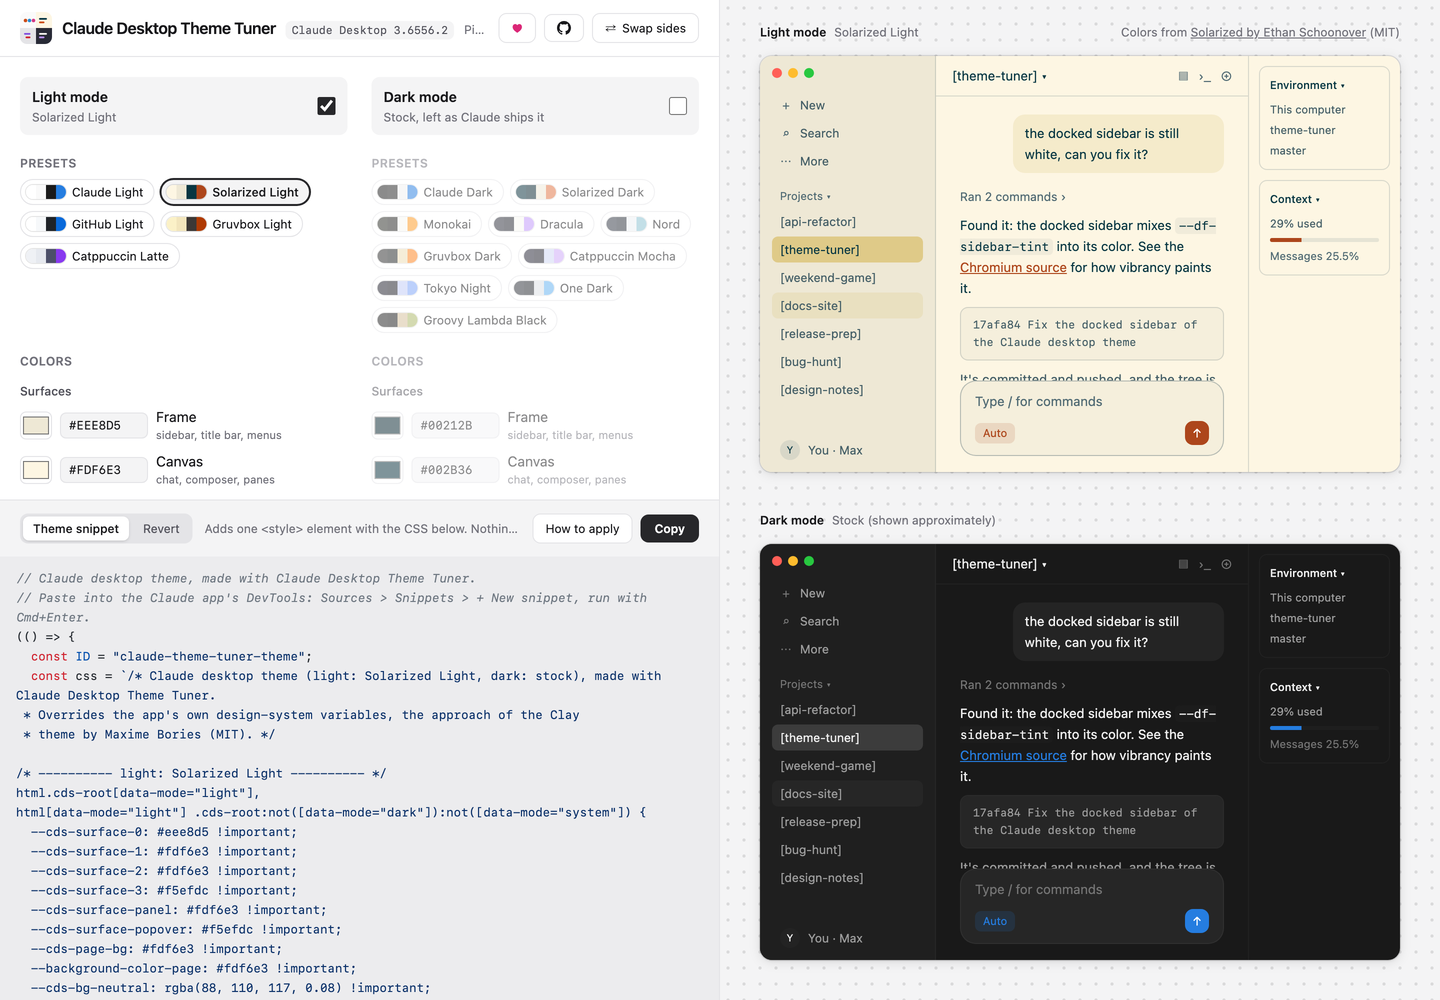
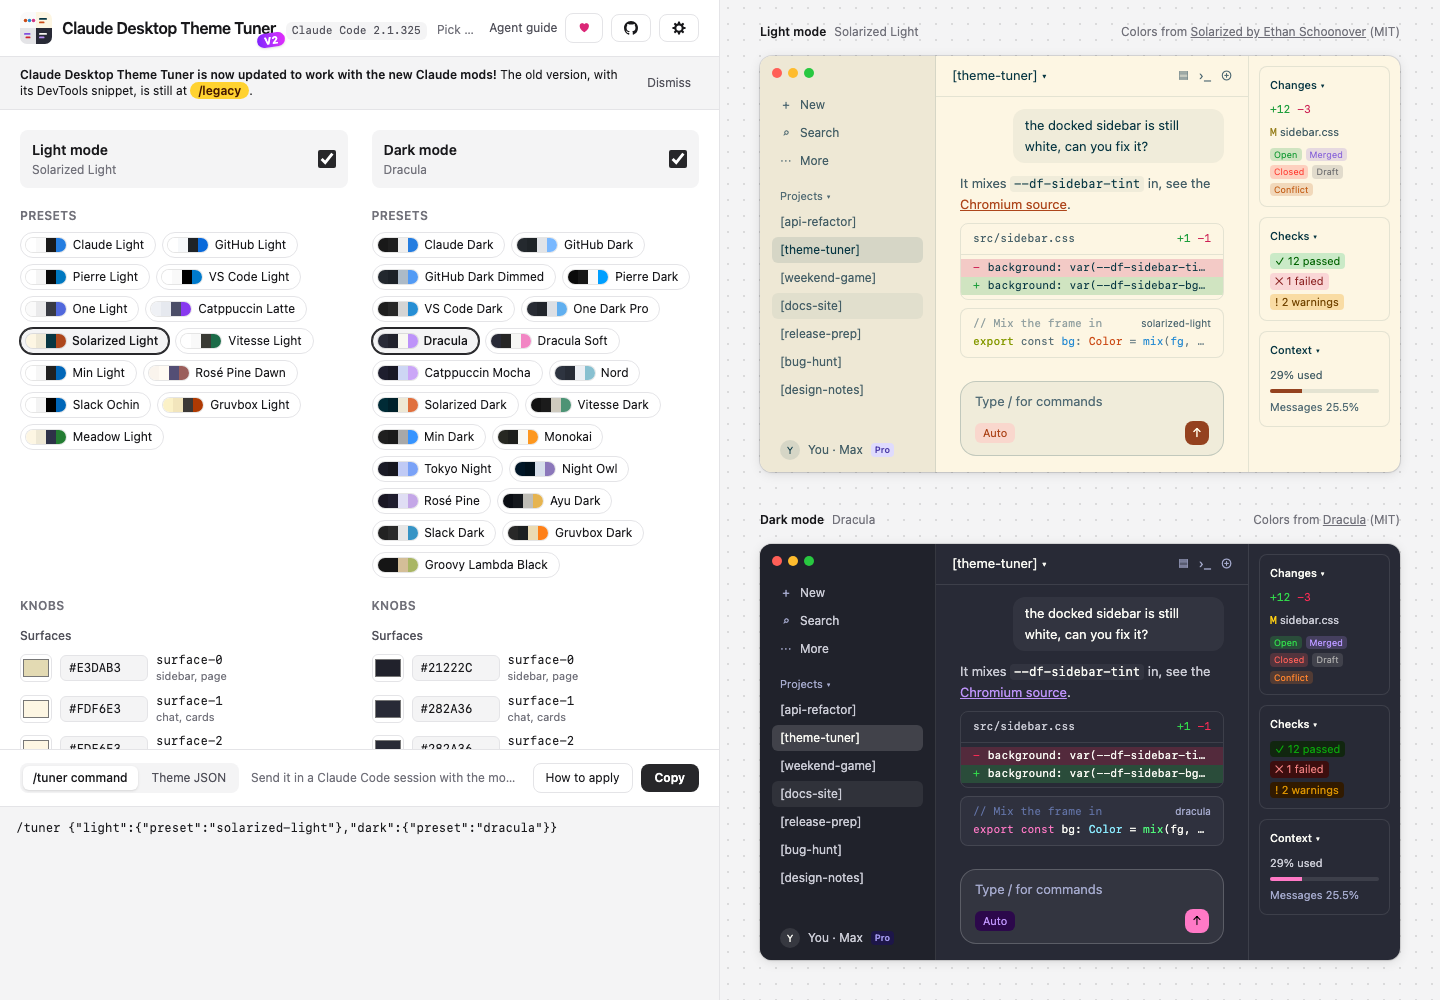
Retake the README screenshot, and move the first tuner to a Legacy section
The screenshot shows the home: the knobs of each mode over the /tuner
command, and the light and dark previews. The README now leads with the
home and the mod (features, install, agents, how a look is made), and the
first tuner gets a Legacy section of its own: its features, how it compares
with the mod, the snippet steps, screenshots for agents, what to do when a
Claude update breaks it, and how the snippet works. The video, which shows
the first tuner, moves there too.

diff --git a/README.md b/README.md
@@ -9,7 +9,7 @@
 </p>
 
 <p align="center">
-  Pick, tune and copy a color theme for the Claude desktop app, in light and dark mode.
+  Design a color theme for the Claude desktop app, in light and dark mode, and apply it with a Claude Code mod.
 </p>
 
 <p align="center">
@@ -20,114 +20,60 @@
   <a href="LICENSE"><img src="https://img.shields.io/github/license/rinn7e/claude-desktop-theme-tuner" alt="License: MIT"></a>
 </p>
 
-Design a theme for the Claude desktop app with a live preview. The home page
-designs it for the Theme Tuner mod of Claude Code: the surfaces, texts, roles,
-git colors and code theme of each mode, the contrast and a backdrop, written as
-a JSON setup the mod applies. The first tuner, at
-[`/legacy`](https://rinn7e.com/claude-desktop-theme-tuner/legacy), tunes 13
-colors and copies them as a DevTools snippet. Light and dark mode each get their
-own theme, and the app follows your OS between them. Tested against Claude
-desktop 3.6556.2 on macOS (the version is shown in the app's title bar).
+Design a theme for the Claude desktop app with a live preview, and apply it
+with the Theme Tuner mod of Claude Code: no DevTools, kept across restarts,
+shown on mobile too. Light and dark mode each get their own theme, and the app
+follows your OS between them. The first tuner, with its DevTools snippet, lives
+on at [`/legacy`](https://rinn7e.com/claude-desktop-theme-tuner/legacy) (see
+[Legacy](#legacy-the-first-tuner)).
 
 **Open the app: [rinn7e.com/claude-desktop-theme-tuner](https://rinn7e.com/claude-desktop-theme-tuner/)**,
-install the [Theme Tuner mod](#theme-claude-code-with-the-mod) to theme Claude
-Code sessions with no DevTools, or
+install the [Theme Tuner mod](#theme-claude-code-with-the-mod), or
 [let your AI agent design a theme for you](#design-a-theme-with-an-ai-agent).
 
 <p align="center">
-  <img src="doc/screenshot.png" alt="The tuner: customizer and snippet on the left, light and dark previews of the Claude app on the right">
+  <img src="doc/screenshot.png" alt="The home: the knobs of each mode over the /tuner command on the left, light and dark previews of Claude on the right">
 </p>
-
-## Video Showcase
-
-[![Claude Desktop Theme Tuner: how to use it](https://img.youtube.com/vi/DfnZwI23iNM/maxresdefault.jpg)](https://www.youtube.com/watch?v=DfnZwI23iNM)
 
 ## Features
 
-- **A designer for the mod (the home page):** per mode a preset, then each
-  knob of Claude: the four surfaces, the three texts, the five roles, the
-  seven git colors and the code theme; for both modes more contrast and a
-  backdrop (a color or a gradient). Each knob shows the value sent and where
-  it comes from. The page runs Claude's own `makeColors` and the graph of
-  its design system, so the preview draws what Claude draws (a diff and pull
-  request states for the git colors, status marks for the roles, code in
-  the code theme) and says when Claude would refuse the theme and why. It
-  copies the **Theme JSON** or a `/tuner` command. Edits are kept in your
-  browser.
-
-The first tuner, at `/legacy`:
-
-- **Presets:** one for every code theme in Claude's "Code appearance" setting,
-  in the same order, so the app can match its code blocks: Claude Light and
-  Dark (Claude's own defaults, measured from the app), GitHub (Light, Dark,
-  Dark Dimmed), Pierre, VS Code, One Light and One Dark Pro, Catppuccin Latte
-  and Mocha, Solarized, Vitesse, Min, Rosé Pine and Rosé Pine Dawn, Slack
-  Ochin and Slack Dark, Dracula and Dracula Soft, Nord, Monokai, Tokyo Night,
-  Night Owl and Ayu Dark. Plus Gruvbox Light and Dark, Groovy Lambda Black
-  and Meadow Light.
-- **Tuning:** every color of a theme has a picker, with WCAG contrast checks for
-  the text and accent pairs. Edits are kept in your browser.
-- **Presets as files:** the gear menu saves both modes and the options to a
-  JSON file and loads one back, to keep a theme or share it. Loaded names and
-  links are cleaned, so a shared file can't slip extra CSS into the snippet.
-- **Share links:** the gear menu's **Copy Share Link** puts the setup in the
-  link itself (`#theme=...`, which never reaches the server); opening it loads
-  the theme.
-- **A Claude Code mod:** the
-  [Theme Tuner mod](#theme-claude-code-with-the-mod) applies the presets and
-  links with no DevTools, keeps them across restarts and shows them on mobile
-  too.
-- **Made for AI agents:** an agent can design themes for you and show you
-  screenshots, without clicking through the page; see
+- **Presets:** one for every code theme in the "Code appearance" setting of
+  Claude, in the same order: Claude Light and Dark (the own colors of Claude),
+  GitHub (Light, Dark, Dark Dimmed), Pierre, VS Code, One Light and One Dark
+  Pro, Catppuccin Latte and Mocha, Solarized, Vitesse, Min, Rosé Pine and Rosé
+  Pine Dawn, Slack Ochin and Slack Dark, Dracula and Dracula Soft, Nord,
+  Monokai, Tokyo Night, Night Owl and Ayu Dark. Plus Gruvbox Light and Dark,
+  Groovy Lambda Black and Meadow Light.
+- **Every knob of a mod look:** per mode the four surfaces, the three texts,
+  the five roles (accent, danger, success, warning, pro), the seven git colors
+  and the code theme (or none, which leaves the picker of Claude free); for
+  both modes more contrast and a backdrop (a color or a gradient). Each knob
+  shows the value sent and where it comes from, and **Reset to** a preset
+  takes a mode back.
+- **A preview that draws what Claude draws:** the page runs the own
+  `makeColors` of Claude and the graph of its design system, so the light and
+  dark previews show the real tokens: a diff and pull request states for the
+  git colors, status marks and a Pro chip for the roles, code in the colors
+  of the code theme, the stronger borders of more contrast. Checked against
+  probes of the real app: all 219 color tokens match.
+- **Close to the first tuner:** the mod sends each preset so that Claude
+  draws it as the first tuner did: the sidebar in the frame color, links and
+  buttons in the accent, and the light sidebar compensated for the
+  translucent macOS glass (on by default).
+- **Readability:** the WCAG pairs of each mode, and what Claude itself says:
+  a look Claude would refuse, and why.
+- **Easy to apply:** copy the `/tuner` command (the default tab) or the
+  **Theme JSON**; the settings menu saves and loads setup files and copies a
+  share link. Edits are kept in your browser.
+- **Made for AI agents:** an agent can write the setup itself and apply it
+  through the mod; see
   [Design a theme with an AI agent](#design-a-theme-with-an-ai-agent).
-- **Preview:** mocks of the Claude app in light and dark mode at once, painted
-  with the same variables the snippet sets.
-- **Less GPU:** while Claude works, its looping animations (the shimmer on its
-  working text above all) keep the GPU and macOS's WindowServer busy, see
-  [anthropics/claude-code#94003](https://github.com/anthropics/claude-code/issues/94003).
-  The **Reduce motion** option switches on Claude's own reduce-motion guard,
-  which the app never sets; it roughly halved the GPU load in our test.
-- **Thin arrows:** Claude's disclosure arrows (sidebar sections, sessions with
-  nested sessions, the file tree, panels, the chat's tool rows) are a filled
-  triangle that reads like the status dot beside it. The **Thin arrows**
-  option draws Claude's own thin chevron in their place, in the same
-  `<style>`.
-- **Readable output:** the snippet is shown in full before you copy it. It adds
-  one `<style>` element and nothing else, and its CSS reads as plain CSS.
-
-## Design a theme with an AI agent
-
-The tuner works with AI agents that can browse or run commands, such as
-Claude Code, Claude Desktop's Code tab or Codex. Give one the link and say
-what you want:
-
-```
-Use https://rinn7e.com/claude-desktop-theme-tuner/ to design a theme based on
-Solarized Light with neon magenta accents, and show me screenshots of 5 styles.
-```
-
-The agent finds the "Agent guide" link in the tuner's title bar and reads
-[llms.txt](package/web-app/public/llms.txt), which explains how to work without clicking
-through the page:
-
-1. It writes each theme as JSON (a preset plus the colors it changes; every
-   preset's colors are in [presets.json](package/web-app/public/presets.json)) and checks the
-   contrast rules the tuner's own presets follow.
-2. It puts each theme in a link of the first tuner (`/legacy#theme=...`).
-   With `&view=preview`, the link shows only the themed preview of Claude,
-   which the agent screenshots.
-3. It sends you the screenshots, each with its link. Open the one you like:
-   the tuner loads it, and you apply it as below.
-
-Applying stays your step: the snippet runs in your Claude app, so you copy and
-run it yourself.
 
 ## Theme Claude Code with the mod
 
 Claude Code on desktop can be themed by a mod (a plugin with hooks), and the
-Theme Tuner is one: the same presets, kept across restarts and shown on
-mobile too, with nothing pasted in DevTools. It lives in [`package/claude-mod/`](package/claude-mod/), and
-this repository is its marketplace.
+Theme Tuner is one. It lives in [`package/claude-mod/`](package/claude-mod/),
+and this repository is its marketplace.
 
 Install it once. At the prompt of a terminal session:
 
@@ -140,38 +86,102 @@ marketplace** with `rinn7e/claude-desktop-theme-tuner`, then **Add plugin**.
 
 Then, in a Claude Code session:
 
-- `/tuner` opens the mod: a preset for each mode, the colors of each with
-  their keys, a **Theme JSON** box that takes a setup, a link or preset ids,
-  and **Turn off**.
+- `/tuner <JSON>` applies a setup from the home page (**Copy**, on the
+  `/tuner command` tab).
 - `/tuner solarized-light dracula` applies presets by id, and changes only
-  the modes it names (`/tuner list` names them); `/tuner <link>` applies a
-  whole setup from the first tuner (its **How to apply** dialog and the
-  gear menu copy that command); `/tuner <JSON>` applies a setup from the
-  home page (**Copy /tuner command**).
+  the modes it names (`/tuner list` names them).
+- `/tuner` opens the pane of the mod: a preset for each mode, the knobs it
+  sends, a **Theme JSON** box that takes a setup, a link or preset ids, and
+  **Turn off**.
 - Or ask Claude ("make it Solarized with a magenta accent"): the mod gives it
   a `set_theme` tool that takes the setup JSON.
-- `/tuner off` goes back to Claude's own colors.
+- `/tuner off` goes back to the own colors of Claude.
 
-The mod and the snippet differ in reach:
+## Design a theme with an AI agent
+
+In a Claude Code session with the mod, just ask: Claude writes the setup JSON
+and applies it with the `set_theme` tool, so you see each change in the app
+at once and ask for the next one.
+
+Elsewhere, give the agent the link and say what you want:
+
+```
+Use https://rinn7e.com/claude-desktop-theme-tuner/ to design a theme based on
+Solarized Light with neon magenta accents.
+```
+
+The agent finds the "Agent guide" link in the title bar and reads
+[llms.txt](package/web-app/public/llms.txt): the setup JSON and its knobs,
+the rules Claude checks, and a link (`#theme=...`) that opens the home with a
+setup, for you to look at and apply.
+
+## How a look is made
+
+A mod look is not written token by token: `makeColors`
+(`package/claude-mod/hooks/make-colors.js`, the own file of Claude) takes a
+few anchors and role seeds, and Claude derives about 100 design system tokens
+from them. The mod (`package/claude-mod/hooks/look.ts`) turns a preset into
+those anchors and seeds, and checks with `makeColors` that Claude paints the
+result. Every knob, the rules Claude checks and what was measured in the
+real app are in [doc/mod-knobs.md](doc/mod-knobs.md); how the app was probed
+is in [doc/claude-internals.md](doc/claude-internals.md).
+
+| File                                           | Role                                                                                   |
+| ---------------------------------------------- | -------------------------------------------------------------------------------------- |
+| `package/claude-mod/hooks/look.ts`             | a setup to the look the mod sends, shared with the web app                             |
+| `package/claude-mod/hooks/register.tsx`        | the `/tuner` command, the `set_theme` tool, the pane and the start of a session        |
+| `package/web-app/src/screen/home-screen/`      | the home page: the knob editor, the code panel and preview v2                          |
+| `package/web-app/src/theme/claude-graph.js`    | the graph and resolver of Claude, cut from `make-colors.js` by a snapshot test         |
+| `package/web-app/src/theme/code-syntax.ts`     | the syntax colors of each code theme, generated by `pnpm --filter web-app code-syntax` |
+| `package/web-app/snippets/mod-look.snippet.js` | for maintainers: reports which variables paint each part of the real app under a look  |
+
+## Legacy: the first tuner
+
+The first tuner lives on at
+[`/legacy`](https://rinn7e.com/claude-desktop-theme-tuner/legacy): 13 colors
+per mode with a live preview, copied as a DevTools snippet. It themes the
+whole desktop app, not only Claude Code sessions. Tested against Claude
+desktop 3.6556.2 on macOS (the version is shown in its title bar). The video
+shows it:
+
+[![Claude Desktop Theme Tuner: how to use it](https://img.youtube.com/vi/DfnZwI23iNM/maxresdefault.jpg)](https://www.youtube.com/watch?v=DfnZwI23iNM)
+
+### Features of the first tuner
+
+- **Tuning:** every color of a theme has a picker, with WCAG contrast checks
+  for the text and accent pairs. Edits are kept in your browser.
+- **Presets as files:** the gear menu saves both modes and the options to a
+  JSON file and loads one back. Loaded names and links are cleaned, so a
+  shared file cannot slip extra CSS into the snippet.
+- **Share links:** **Copy Share Link** puts the setup in the link itself
+  (`/legacy#theme=...`, which never reaches the server); opening it loads the
+  theme.
+- **Less GPU:** while Claude works, its looping animations (the shimmer on
+  its working text above all) keep the GPU and the WindowServer of macOS
+  busy, see
+  [anthropics/claude-code#94003](https://github.com/anthropics/claude-code/issues/94003).
+  The **Reduce motion** option switches on the own reduce-motion guard of
+  Claude, which the app never sets; it roughly halved the GPU load in our
+  test.
+- **Thin arrows:** the **Thin arrows** option draws the own thin chevron of
+  Claude in place of its filled triangle arrows, in the same `<style>`.
+- **Readable output:** the snippet is shown in full before you copy it. It
+  adds one `<style>` element and nothing else, and its CSS reads as plain CSS.
+
+### The mod and the snippet
 
 - The mod themes Claude Code sessions, in the desktop and mobile apps, and
   stays. The snippet themes the whole desktop app (the Chat tab and the full
   sidebar too) until Claude restarts, and alone has Thin arrows and Reduce
   motion.
-- A mod look takes a few colors and Claude derives the rest: the sidebar and
-  chat surfaces, the three texts and the accent go across, and the code
-  theme of the preset's name (every preset that matches one of Claude's code
-  themes sets it, except Claude's own colors, which leave the mode to the
-  app). The snippet sets all 13 colors as they are.
-- Claude refuses to paint a look whose text is too close to its
-  backgrounds, so the mod checks each look with Claude's own `makeColors`
-  and, where one would not paint, makes its text a little stronger and says
-  so. Every preset paints (`package/web-app/test/mod-look.test.ts`).
+- The snippet sets all 13 colors as they are; a mod look sends anchors and
+  seeds, and Claude derives the rest (a selected row and the message bubble
+  always come from the text color).
 
-## Apply a theme with the snippet
+### Apply a theme with the snippet
 
-The app's **How to apply** button walks through it, with a screenshot of each
-step (in `package/web-app/src/asset/how-to-apply/`):
+The **How to apply** button of the first tuner walks through it, with a
+screenshot of each step (in `package/web-app/src/asset/how-to-apply/`):
 
 1. Turn on Developer Mode once: in Claude, **Help > Troubleshooting > Enable
    Developer Mode**.
@@ -182,26 +192,33 @@ step (in `package/web-app/src/asset/how-to-apply/`):
 5. Paste it, press Cmd+S to keep it, then Cmd+Enter to run it. The Console
    says `[theme] applied`.
 
-The theme lasts until Claude restarts; after that, run the saved snippet again.
-The **Revert** tab has the one-line command that removes it.
+The theme lasts until Claude restarts; after that, run the saved snippet
+again. The **Revert** tab has the one-line command that removes it.
 
-## When a Claude update breaks the theme
+### Screenshots for an AI agent
+
+An agent can design themes with the first tuner and show you screenshots: it
+puts each theme in a link (`/legacy#theme=...`), and with `&view=preview` the
+link shows only the themed preview of Claude, which the agent screenshots.
+[llms.txt](package/web-app/public/llms.txt) explains it. Running the snippet
+stays your step.
+
+### When a Claude update breaks the theme
 
 Updates rename or add color variables, and the surfaces using them go back to
-stock. Maintainers run `package/web-app/snippets/diagnose.snippet.js` in the Console the same
-way, with DevTools undocked (docked DevTools narrows the window, which
-collapses the sidebar). It copies a JSON report to the clipboard: what paints
-each area, the color variables in use, the rules behind each sidebar, and
-every surface still white or gray. Map the new names in `package/web-app/src/theme/tokens.ts`.
-How Claude's UI is put together, and the traps met while debugging it, are in
-[doc/claude-internals.md](doc/claude-internals.md).
+stock. Maintainers run `package/web-app/snippets/diagnose.snippet.js` in the
+Console the same way, with DevTools undocked (docked DevTools narrows the
+window, which collapses the sidebar). It copies a JSON report to the
+clipboard: what paints each area, the color variables in use, the rules
+behind each sidebar, and every surface still white or gray. Map the new names
+in `package/web-app/src/theme/tokens.ts`.
 
-## How it works
+### How the snippet works
 
-Claude's UI takes its colors from CSS variables: the design system's `--cds-*`,
-claude.ai's older `--bg-*` and `--text-*` (HSL triples), and the Code tab
-frame's `--df-*`. A theme is 13 semantic colors, and everything else is derived
-from them.
+The UI of Claude takes its colors from CSS variables: the `--cds-*` of the
+design system, the older `--bg-*` and `--text-*` of claude.ai (HSL triples),
+and the `--df-*` of the Code tab frame. A theme is 13 semantic colors, and
+everything else is derived from them.
 
 | File                                               | Role                                                                                                                       |
 | -------------------------------------------------- | -------------------------------------------------------------------------------------------------------------------------- |
@@ -211,20 +228,20 @@ from them.
 | `package/web-app/src/theme/tokens.ts`              | maps a palette onto every Claude variable the snippet sets                                                                 |
 | `package/web-app/src/theme/css.ts`                 | writes those variables under the light and dark selectors                                                                  |
 | `package/web-app/src/theme/snippet.ts`             | wraps the CSS into the paste-able script                                                                                   |
-| `package/web-app/src/preview/claude-mock.tsx`      | the preview, painted with the same variables                                                                               |
+| `package/web-app/src/preview/claude-mock.tsx`      | the preview, painted with the same variables (the home lays the tokens of Claude over them)                                |
 | `package/web-app/src/storage/preset-file.ts`       | the preset JSON file: saving, and checking a loaded one                                                                    |
-| `package/web-app/snippets/diagnose.snippet.js`     | for maintainers: reports Claude's color variables after an update breaks the theme                                         |
-| `package/web-app/snippets/stock-colors.snippet.js` | reads Claude's own default colors, for the Claude presets                                                                  |
+| `package/web-app/snippets/diagnose.snippet.js`     | for maintainers: reports the color variables of Claude after an update breaks the theme                                    |
+| `package/web-app/snippets/stock-colors.snippet.js` | reads the own default colors of Claude, for the Claude presets                                                             |
 | `package/web-app/snippets/arrows.snippet.js`       | lists every icon shape in Claude and where it shows, to find the bold arrows to restyle                                    |
 
 Three quirks shape the CSS, each explained where it is handled in the code:
 
 - Every declaration is `!important`, because Claude sets the same variables
   with selectors of up to five parts (its dark mode ones most of all).
-- The frame re-sets its variables on its own sidebar and cards, so they are set
-  there too.
-- With macOS vibrancy the docked sidebar mixes a white tint over a transparent
-  window, so the tint is set to the frame color at 100%.
+- The frame re-sets its variables on its own sidebar and cards, so they are
+  set there too.
+- With macOS vibrancy the docked sidebar mixes a white tint over a
+  transparent window, so the tint is set to the frame color at 100%.
 
 ## Development
 
